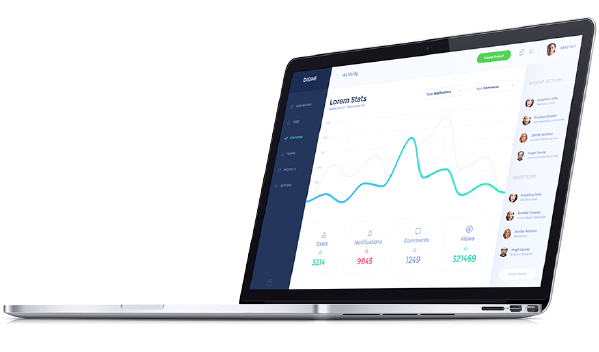
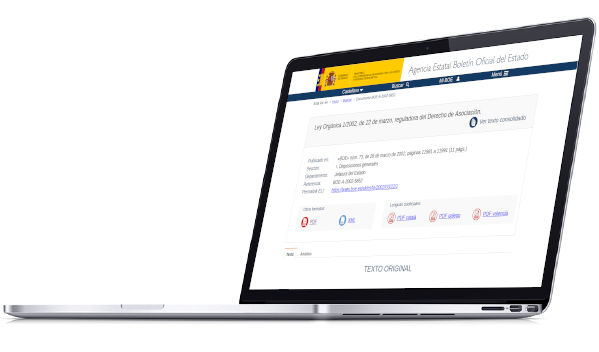
Cambiada imagen de los estatutos 	modified:   assets/img/feature-1.png Cambiado colores 	modified:   css/style.css Eliminado temporalmente código innecesario 	modified:   javascript/scripts.js

diff --git a/javascript/scripts.js b/javascript/scripts.js
@@ -1,10 +1,10 @@
-const hamburguesa = document.getElementById("hamburguesa");
-const navBar = document.getElementById("nav-bar");
+// const hamburguesa = document.getElementById("hamburguesa");
+// const navBar = document.getElementById("nav-bar");
 const asociarse = document.getElementById("asociarse");
 
-hamburguesa.addEventListener("click", () => {
-    navBar.classList.toggle("active");
-})
+// hamburguesa.addEventListener("click", () => {
+//     navBar.classList.toggle("active");
+// })
 
 asociarse.addEventListener("click", () => {
     alert("Por favor, siga las instrucciones descritas en el ANEXO para rellenar el formulario.\n\nUna vez completado, envíelo mediante correo electrónico a la dirección indicada en el margen superior derecho o entréguelo en la sede.");

diff --git a/css/style.css b/css/style.css
@@ -111,7 +111,7 @@ button {
 
 .nav-menu:hover {
     /* text-decoration: none; */
-    background-color: #219EBC;
+    background-color: #c1c1c145;
     border-radius: 22px;
     color: black;
 } 
@@ -211,7 +211,7 @@ button {
 }
 
 #estatutos {
-    background: linear-gradient(168deg, #ffffff 55%, #0d7735 0);
+    background: linear-gradient(168deg, #ffffff 55%, #219EBC 0);
 }
 
 #feature-last {
